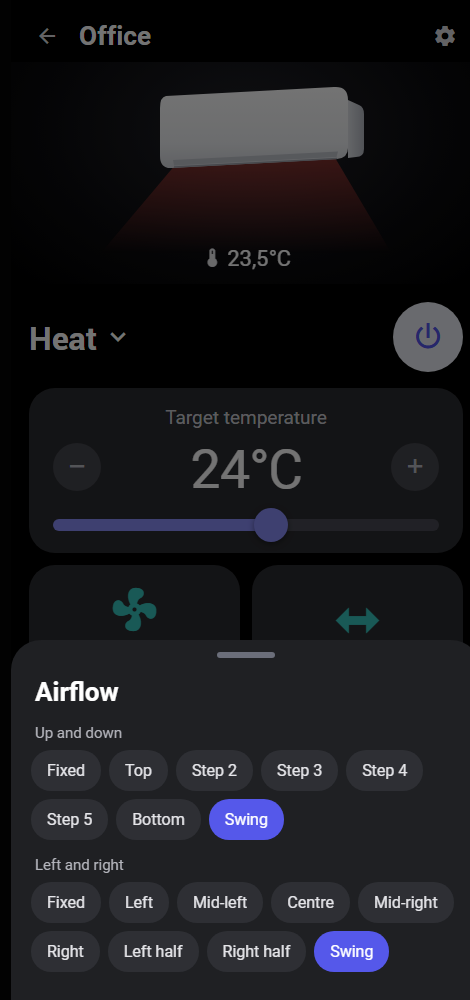
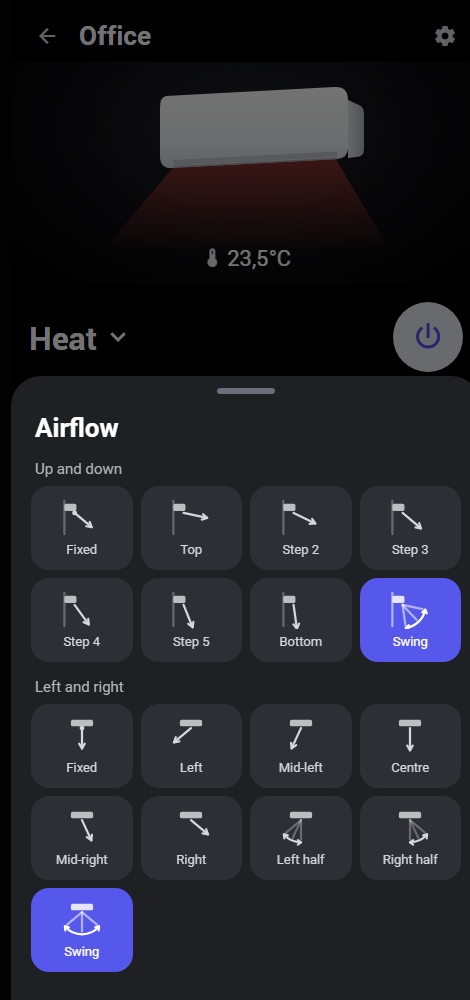
Release 1.3.0: airflow pictograms
- Airflow sheet with a pictogram per louvre position
- README in Dutch first, then English

diff --git a/dist/thinq-airco-card.js b/dist/thinq-airco-card.js
@@ -16,7 +16,7 @@
  *                                       entity overrides; found automatically on the same device.
  *                                       Set to false to hide a feature.
  */
-const LG_VERSION = '1.2.0';
+const LG_VERSION = '1.3.0';
 const LG_I18N = {
   nl: {
     'm.cool': 'Koelen', 'm.dry': 'Ontvochtigen', 'm.fan_only': 'Ventilator', 'm.heat': 'Warmte', 'm.heat_cool': 'Auto', 'm.auto': 'Auto', 'm.__on': 'Inschakelen…',
@@ -122,6 +122,54 @@ function lgRelated(hass, config) {
     out[k] = config[k] || ids.find((id) => r.test(id)) || null;
   }
   return out;
+}
+
+/* Pictogram per lamelstand.
+   k = 'v' (op en neer): zijaanzicht, airco aan de muur links, pijl steeds steiler naar beneden.
+   k = 'h' (links en rechts): bovenaanzicht, airco boven, pijl naar links/midden/rechts. */
+function lgFlowSvg(k, v) {
+  const rad = (d) => (d * Math.PI) / 180;
+  const arrow = (x, y, ang, len, cls = '') => {
+    // ang in graden: 0 = recht omlaag (h) of horizontaal (v) — omgerekend door de aanroeper
+    const ex = x + Math.cos(rad(ang)) * len, ey = y + Math.sin(rad(ang)) * len;
+    const a1 = rad(ang + 150), a2 = rad(ang - 150), hl = 6;
+    return `<g class="${cls}"><line x1="${x}" y1="${y}" x2="${ex.toFixed(1)}" y2="${ey.toFixed(1)}"/>`
+      + `<polyline points="${(ex + Math.cos(a1) * hl).toFixed(1)},${(ey + Math.sin(a1) * hl).toFixed(1)} ${ex.toFixed(1)},${ey.toFixed(1)} ${(ex + Math.cos(a2) * hl).toFixed(1)},${(ey + Math.sin(a2) * hl).toFixed(1)}"/></g>`;
+  };
+  const fan = (x, y, from, to, len) => {
+    let s = '';
+    for (const a of [from, (from + to) / 2, to]) {
+      const ex = x + Math.cos(rad(a)) * len, ey = y + Math.sin(rad(a)) * len;
+      s += `<line class="fz" x1="${x}" y1="${y}" x2="${ex.toFixed(1)}" y2="${ey.toFixed(1)}"/>`;
+    }
+    const r = len + 3, sx = x + Math.cos(rad(from)) * r, sy = y + Math.sin(rad(from)) * r;
+    const ex = x + Math.cos(rad(to)) * r, ey = y + Math.sin(rad(to)) * r;
+    const large = Math.abs(to - from) > 180 ? 1 : 0, sweep = to > from ? 1 : 0;
+    const ah = (px, py, ang) => { const a1 = rad(ang + 145), a2 = rad(ang - 145), z = 4.2; return `<polyline points="${(px + Math.cos(a1) * z).toFixed(1)},${(py + Math.sin(a1) * z).toFixed(1)} ${px.toFixed(1)},${py.toFixed(1)} ${(px + Math.cos(a2) * z).toFixed(1)},${(py + Math.sin(a2) * z).toFixed(1)}"/>`; };
+    s += `<path d="M${sx.toFixed(1)} ${sy.toFixed(1)} A${r} ${r} 0 ${large} ${sweep} ${ex.toFixed(1)} ${ey.toFixed(1)}"/>`;
+    s += ah(ex, ey, to + (sweep ? 90 : -90)) + ah(sx, sy, from + (sweep ? -90 : 90));
+    return s;
+  };
+  const pin = (x, y) => `<circle cx="${x}" cy="${y}" r="2.6" fill="currentColor" stroke="none"/>`;
+  let body = '';
+  if (k === 'v') {
+    body = `<line x1="4" y1="2" x2="4" y2="38" class="fz"/><rect x="4" y="5" width="13" height="8" rx="2" fill="currentColor" stroke="none" opacity=".85"/>`;
+    const ox = 15, oy = 15;
+    const ang = { Top: 12, MiddleTop1: 26, MiddleTop2: 40, MiddleBottom2: 54, MiddleBottom1: 68, Bottom: 82 }[v];
+    if (ang !== undefined) body += arrow(ox, oy, ang, 26);
+    else if (v === 'Swing') body += fan(ox, oy, 12, 82, 22);
+    else body += arrow(ox, oy, 40, 24) + pin(ox, oy);
+  } else {
+    body = `<rect x="11" y="3" width="24" height="7" rx="2" fill="currentColor" stroke="none" opacity=".85"/>`;
+    const ox = 23, oy = 12;
+    const ang = { Left: 140, MiddleLeft: 115, Center: 90, MiddleRight: 65, Right: 40 }[v];
+    if (ang !== undefined) body += arrow(ox, oy, ang, 24);
+    else if (v === 'LeftHalf') body += fan(ox, oy, 90, 140, 21);
+    else if (v === 'RightHalf') body += fan(ox, oy, 40, 90, 21);
+    else if (v === 'Swing') body += fan(ox, oy, 40, 140, 21);
+    else body += arrow(ox, oy, 90, 22) + pin(ox, oy);
+  }
+  return `<svg viewBox="0 0 46 41" fill="none" stroke="currentColor" stroke-width="2.4" stroke-linecap="round" stroke-linejoin="round">${body}</svg>`;
 }
 
 function lgCurrentTemp(hass, config, s) {
@@ -310,9 +358,14 @@ dialog.bsheet::backdrop { background: rgba(0,0,0,.55); }
 .opt.sel .chk { visibility: visible; }
 .opt .mi { --mdc-icon-size: 28px; }
 .sub-h { color: var(--sub); font-size: 15px; margin: 16px 4px 8px; }
-.chips { display:flex; flex-wrap:wrap; gap: 8px; }
-.chip { border:none; background:#2e2f34; color:#e6e6ea; font: inherit; font-size: 16px; padding: 11px 16px; border-radius: 20px; cursor:pointer; }
+.chips { display:grid; grid-template-columns: repeat(4, 1fr); gap: 8px; }
+.chip { border:none; background:#2e2f34; color:#d6d7dc; font: inherit; font-size: 13px; line-height: 1.2; padding: 10px 4px 9px; border-radius: 18px; cursor:pointer;
+  display:flex; flex-direction:column; align-items:center; gap: 5px; min-height: 84px; justify-content:center; transition: background .15s, color .15s; }
+.chip svg { width: 46px; height: 38px; display:block; }
+.chip .fz { opacity: .35; }
 .chip.sel { background: var(--acc2); color:#fff; }
+.chip.sel .fz { opacity: .55; }
+@media (max-width: 360px) { .chips { grid-template-columns: repeat(3, 1fr); } }
 `;
 
 class LgAircoPanel extends HTMLElement {
@@ -740,7 +793,7 @@ class LgAircoPanel extends HTMLElement {
     } else if (kind === 'air') {
       $.bstitle.textContent = lgT('airflow');
       const vs = this._val('swing', a.swing_mode), hs = this._val('hswing', a.swing_horizontal_mode);
-      const chips = (list, map, cur, k) => `<div class="chips">${list.map((v) => `<button class="chip ${v === cur ? 'sel' : ''}" data-k="${k}" data-v="${lgEsc(v)}">${lgEsc(map[v] || v)}</button>`).join('')}</div>`;
+      const chips = (list, map, cur, k) => `<div class="chips">${list.map((v) => `<button class="chip ${v === cur ? 'sel' : ''}" data-k="${k}" data-v="${lgEsc(v)}">${lgFlowSvg(k, v)}<span>${lgEsc(map[v] || v)}</span></button>`).join('')}</div>`;
       let html = '';
       if (a.swing_modes && a.swing_modes.length) html += `<div class="sub-h">${lgT('updown')}</div>${chips(a.swing_modes, LG_VSWING, vs, 'v')}`;
       if (a.swing_horizontal_modes && a.swing_horizontal_modes.length) html += `<div class="sub-h">${lgT('leftright')}</div>${chips(a.swing_horizontal_modes, LG_HSWING, hs, 'h')}`;

diff --git a/README.md b/README.md
@@ -1,32 +1,114 @@
 # ThinQ Airco Card
 
+[Nederlands](#nederlands) · [English](#english)
+
+| Tegel / Tile | Bediening / Control | Modus / Mode | Luchtstroom / Airflow | Nuttige functies / Features |
+|---|---|---|---|---|
+| ![Tiles](images/tiles.png) | ![Control](images/control.png) | ![Mode](images/mode.png) | ![Airflow](images/airflow.png) | ![Features](images/features.png) |
+
+---
+
+## Nederlands
+
+Een dashboardkaart voor Home Assistant voor **LG-airco's**, in de stijl van de **LG ThinQ-app**:
+een compacte tegel voor je dashboard die een bedieningsscherm opent met dezelfde opbouw als de app.
+
+Werkt met de climate-entiteiten van de integratie [smartthinq_sensors](https://github.com/ollo69/ha-smartthinq-sensors).
+Andere climate-entiteiten werken ook; de LG-specifieke extra's (Extra snel, slaaptimer, filter) worden dan verborgen.
+
+### Mogelijkheden
+
+- Tegel zoals het ThinQ-overzicht: afbeelding van de airco, naam, kamertemperatuur en aan/uit-knop; de luchtlijntjes krijgen de kleur van de stand
+- Bedieningsscherm zoals de toestelpagina in de ThinQ-app:
+  - blad met de bedieningsmodus (Koelen, Ontvochtigen, Ventilator, Warmte, Auto)
+  - doeltemperatuur met − / + en schuifbalk (wordt na een korte pauze verstuurd, zodat een paar tikken één opdracht worden)
+  - ventilatorsnelheid met ‹ ›, blad voor de luchtstroom (lamelstanden op en neer, links en rechts, zwenken)
+  - slaaptimer en Extra snel (Jet mode)
+  - tabblad *Nuttige functies*: filter, stroomverbruik, energie, displayverlichting, wifi
+- Bijbehorende LG-entiteiten worden automatisch gevonden op hetzelfde apparaat
+- Drie stijlen: `lg` (donkere ThinQ-kleuren), `glass` (matglas), `theme` (volgt je Home Assistant-thema)
+- Nederlands en Engels, volgens de taal van de Home Assistant-gebruiker
+- Afbeelding van een wandunit of een plafondcassette
+
+### Installeren
+
+**Via de Marktplaats (HACS)**
+
+1. Open in Home Assistant de **Marktplaats** (HACS) → ⋮ → **Aangepaste repositories**.
+2. Voeg `https://github.com/schmeitz/thinq-airco-card` toe met type **Dashboard**.
+3. Zoek **ThinQ Airco Card**, installeer hem en ververs de browser.
+
+Nieuwe versies verschijnen daarna vanzelf als update in Home Assistant.
+
+**Handmatig**
+
+Kopieer `dist/thinq-airco-card.js` naar `/config/www/thinq-airco-card/` en voeg hem toe als dashboardbron
+(`/local/thinq-airco-card/thinq-airco-card.js`, type *JavaScript-module*).
+
+### Instellen
+
+```yaml
+type: custom:thinq-airco-card
+entity: climate.airco_woonkamer
+name: Woonkamer
+```
+
+| Optie | Standaard | Omschrijving |
+|---|---|---|
+| `entity` | – | **Verplicht.** Climate-entiteit van de airco. |
+| `name` | vriendelijke naam | Naam op de tegel en het bedieningsscherm. |
+| `layout` | `tile` | `tile`: tegel die het bedieningsscherm opent. `full`: bedieningsscherm direct in de kaart. |
+| `unit` | `wall` | Afbeelding: `wall` (wandunit) of `cassette` (plafondcassette). |
+| `background` | `lg` | `lg`, `glass` of `theme`. |
+| `language` | taal van de gebruiker | `nl` of `en`. |
+| `temperature_sensor` | – | Toon de temperatuur van een andere sensor (handig als de sensor van de airco zelf afwijkt). |
+| `jet_mode`, `display_light`, `sleep_time`, `filter`, `power`, `energy`, `ssid` | automatisch | Andere entiteit opgeven. Standaard gezocht op hetzelfde apparaat; zet op `false` om te verbergen. |
+
+Voorbeeld met alles erop en eraan:
+
+```yaml
+type: custom:thinq-airco-card
+entity: climate.airco_woonkamer
+name: Woonkamer
+unit: cassette
+background: glass
+temperature_sensor: sensor.woonkamer_gemiddelde_temperatuur
+```
+
+### Goed om te weten
+
+- De slaaptimer gebruikt de actie `smartthinq_sensors.set_sleep_time`. De LG-cloud meldt de timer met vertraging
+  terug, daarom onthoudt de kaart de gekozen eindtijd in de browser.
+- Ventilatorstand `diffuse` (LG "natuurlijke wind") heet op de kaart **Auto**, net als in de ThinQ-app.
+- De schema's uit de ThinQ-app geeft de integratie niet door; die staan dus niet op de kaart.
+
+---
+
+## English
+
 A Home Assistant dashboard card for **LG air conditioners**, styled like the **LG ThinQ app**:
 a compact tile for your dashboard that opens a full control screen with the same layout as the app.
 
 Works with the climate entities of the [smartthinq_sensors](https://github.com/ollo69/ha-smartthinq-sensors) integration.
-Other climate entities work too, LG-specific extras (jet mode, sleep timer, filter) are simply hidden.
+Other climate entities work too; LG-specific extras (jet mode, sleep timer, filter) are simply hidden.
 
-| Tile | Control screen | Operation mode | Airflow | Useful features |
-|---|---|---|---|---|
-| ![Tiles](images/tiles.png) | ![Control](images/control.png) | ![Mode](images/mode.png) | ![Airflow](images/airflow.png) | ![Features](images/features.png) |
-
-## Features
+### Features
 
 - Tile like the ThinQ overview: unit picture, name, room temperature, power button; airflow lines in the colour of the mode
 - Control screen like the ThinQ device page:
   - operation mode sheet (Cool, Dry, Fan, Heat, Auto)
   - target temperature with − / + and slider (sent after a short pause, so several taps become one command)
   - fan speed with ‹ ›, airflow sheet (up/down and left/right louvre positions, swing)
-  - sleep timer, jet mode ("Extra snel")
+  - sleep timer and jet mode
   - *Useful features* tab: filter life, power, energy, display light, Wi-Fi
 - Related LG entities are found automatically on the same device
 - Three looks: `lg` (dark ThinQ colours), `glass` (frosted glass), `theme` (follows your Home Assistant theme)
 - Dutch and English, following the language of the Home Assistant user
 - Wall unit or ceiling cassette picture
 
-## Installation
+### Installation
 
-### Marketplace (HACS)
+**Marketplace (HACS)**
 
 1. Open the **Marketplace** (HACS) in Home Assistant → ⋮ → **Custom repositories**.
 2. Add `https://github.com/schmeitz/thinq-airco-card` with type **Dashboard**.
@@ -34,12 +116,12 @@ Other climate entities work too, LG-specific extras (jet mode, sleep timer, filt
 
 New versions show up as an update in Home Assistant.
 
-### Manual
+**Manual**
 
 Copy `dist/thinq-airco-card.js` to `/config/www/thinq-airco-card/` and add it as a dashboard resource
 (`/local/thinq-airco-card/thinq-airco-card.js`, type *JavaScript module*).
 
-## Configuration
+### Configuration
 
 ```yaml
 type: custom:thinq-airco-card
@@ -76,13 +158,9 @@ temperature_sensor: sensor.living_room_average_temperature
 - Fan mode `diffuse` (LG "nature wind") is shown as **Auto**, like in the ThinQ app.
 - Operation schedules from the ThinQ app are not exposed by the integration and are therefore not on the card.
 
-## Nederlands
+---
 
-Een dashboardkaart voor LG-airco's in de stijl van de LG ThinQ-app: een tegel die een bedieningsscherm opent
-met standen, doeltemperatuur, ventilator, luchtstroom, slaaptimer, Extra snel en nuttige functies.
-Installeren via de **Marktplaats** (HACS) → ⋮ → **Aangepaste repositories** → deze URL met type **Dashboard**.
-De kaart volgt de taal van de gebruiker (Nederlands of Engels); met `language: nl` zet je hem vast.
+## Licentie / Licence
 
-## Licence
-
-MIT © 2026 Michiel Schmeitz. Not affiliated with or endorsed by LG Electronics. "LG" and "ThinQ" are trademarks of their respective owner.
+MIT © 2026 Michiel Schmeitz. Niet gelieerd aan of goedgekeurd door LG Electronics. "LG" en "ThinQ" zijn handelsmerken van hun eigenaar.
+Not affiliated with or endorsed by LG Electronics. "LG" and "ThinQ" are trademarks of their respective owner.

diff --git a/CHANGELOG.md b/CHANGELOG.md
@@ -1,5 +1,9 @@
 # Changelog
 
+## 1.3.0 — 2026-11-21
+
+- Airflow sheet with pictograms per louvre position (up/down side view, left/right top view, swing fans)
+
 ## 1.2.0 — 2026-11-21
 
 First public release.
